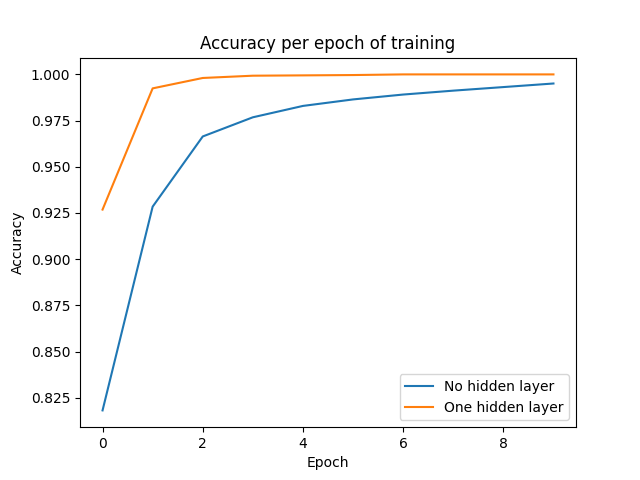
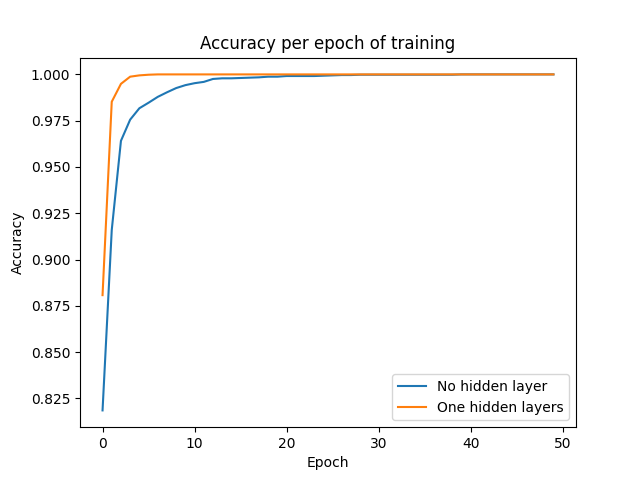
redovisad å godkänd

diff --git a/Lab3/main.py b/Lab3/main.py
@@ -30,12 +30,13 @@ def one_hot_encode(dataset):
 def train_model(x, y, epochs, hidden_layer):
     model = tf.keras.models.Sequential(
         [
-            tf.keras.layers.Flatten(input_shape=(112,)),
+            tf.keras.layers.Input(shape=(112,)),
+            tf.keras.layers.Activation(activation="sigmoid"),
         ]
     )
 
     if hidden_layer:
-        model.add(tf.keras.layers.Dense(10, activation="relu", name="hidden_layer1"))
+        model.add(tf.keras.layers.Dense(10, activation="sigmoid", name="hidden_layer1"))
 
     model.add(tf.keras.layers.Dense(2))
 
@@ -97,6 +98,8 @@ df.pop("stalk-root")
 
 df = one_hot_encode(df)
 
+# print(df)
+
 train, test = train_test_split(df, test_size=0.3)
 
 train_features, train_labels = split_features_labels(train)
@@ -113,13 +116,13 @@ test_labels = np.array(test_labels)
 # test_features = one_hot_encode(test_features)
 # test_labels = one_hot_encode(test_labels)
 
-epochs = 10
+epochs = 50
 
 history_no_hidden_nodes = train_model(train_features, train_labels, epochs, False)
 history_hidden_nodes = train_model(train_features, train_labels, epochs, True)
 
 plt.plot(history_no_hidden_nodes.history["accuracy"], label="No hidden layer")
-plt.plot(history_hidden_nodes.history["accuracy"], label="One hidden layer")
+plt.plot(history_hidden_nodes.history["accuracy"], label="One hidden layers")
 
 plt.legend()
 
